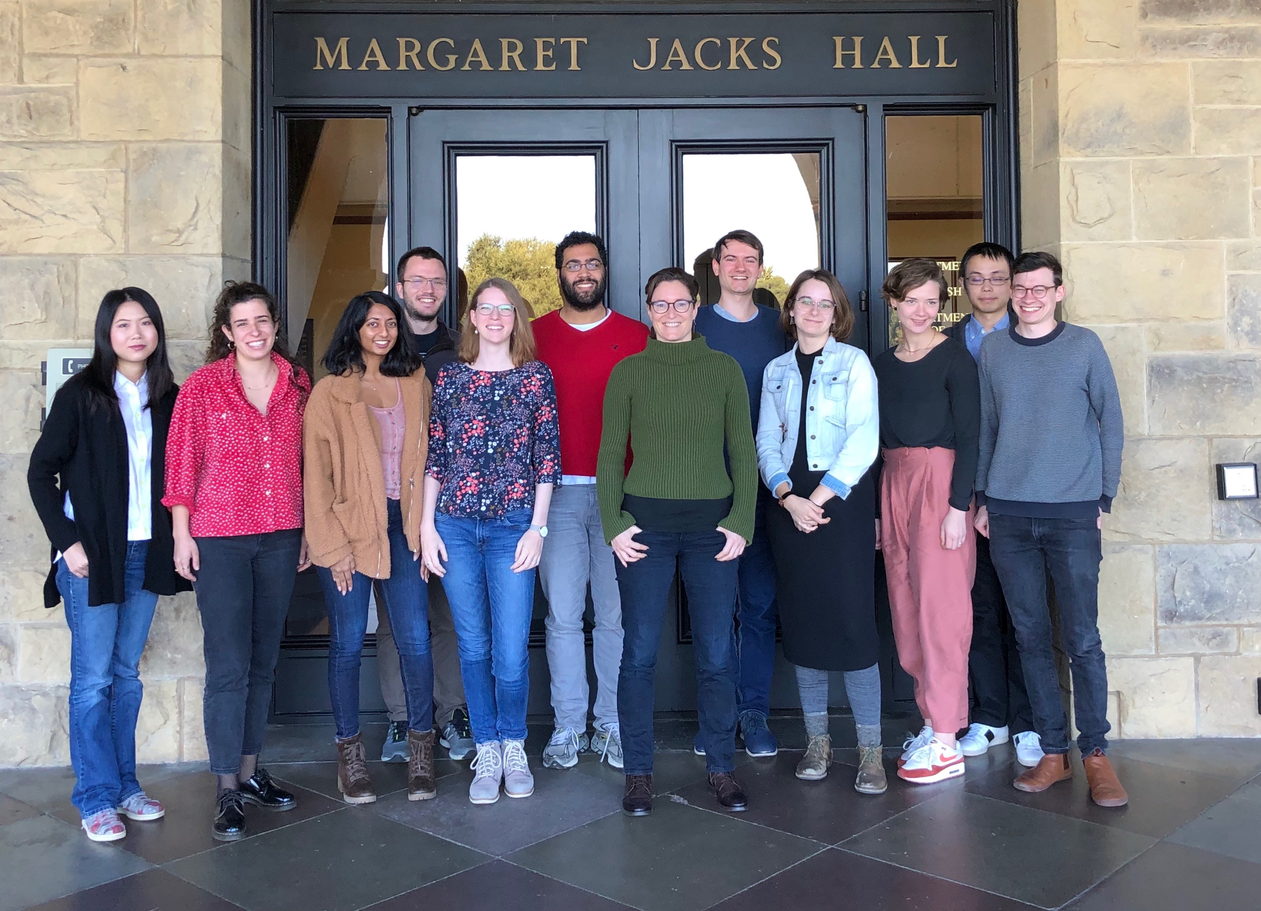
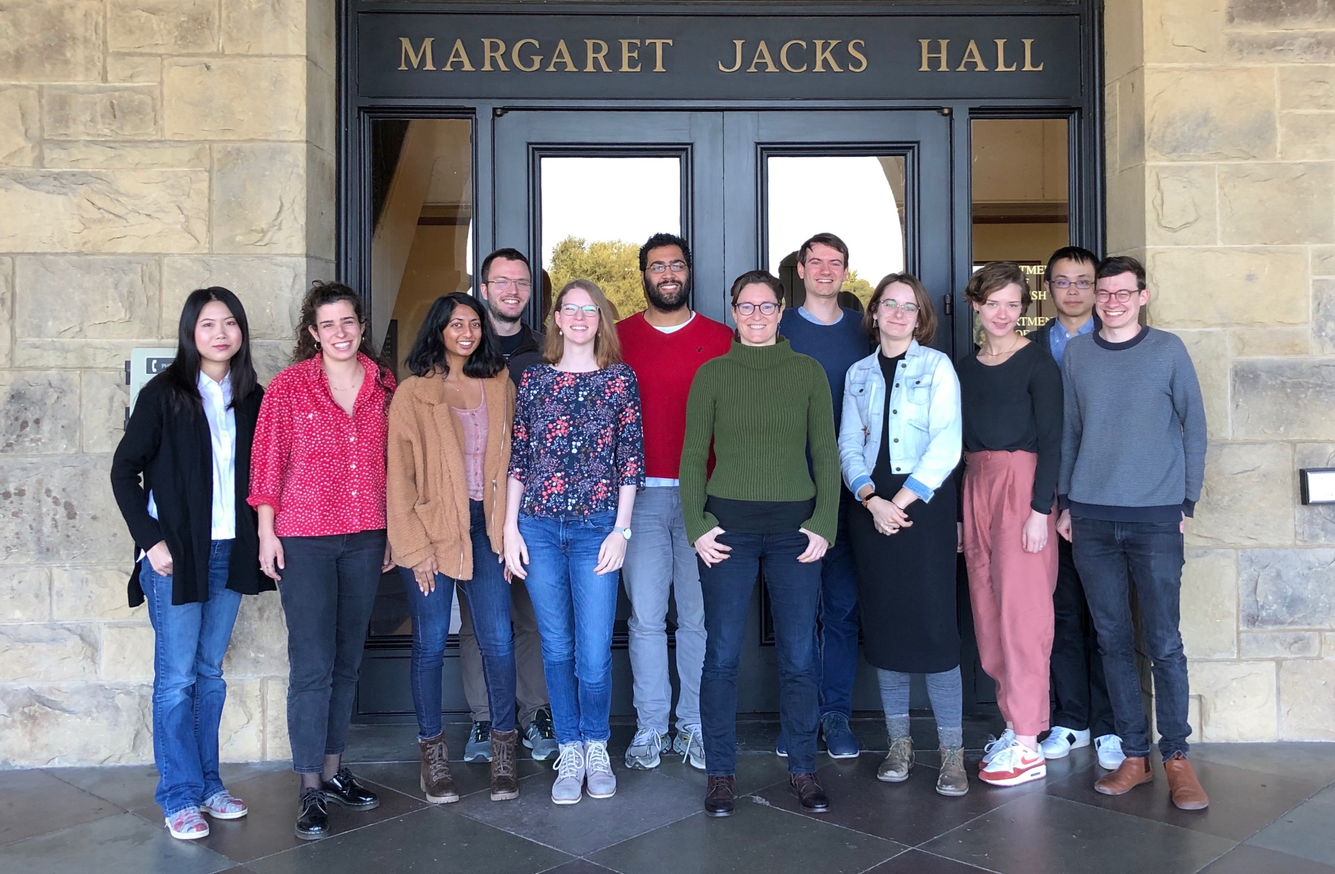
better lab photo

diff --git a/00-index.md b/00-index.md
@@ -8,5 +8,5 @@ permalink: index.html
 
 In the ALPS Lab we study the inference processes involved in language production and comprehension. We study both sides of the communicative coin: how speakers choose an utterance to convey an intended meaning and how listeners arrive at interpretations that are often much richer and more detailed than the utterance's literal meaning. To develop and test explicit theories of these processes, we employ linguistic analysis, behavioral experiments, corpus methods, and computational modeling.
 
-
+<a class="twitter-timeline" href="https://twitter.com/ALPSLabStanford?ref_src=twsrc%5Etfw">Tweets by ALPSLabStanford</a> <script async src="https://platform.twitter.com/widgets.js" charset="utf-8"></script>
 
